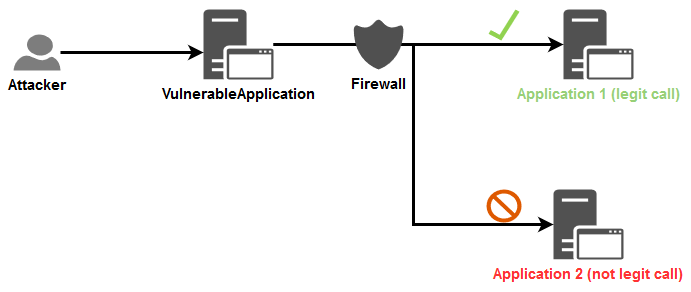
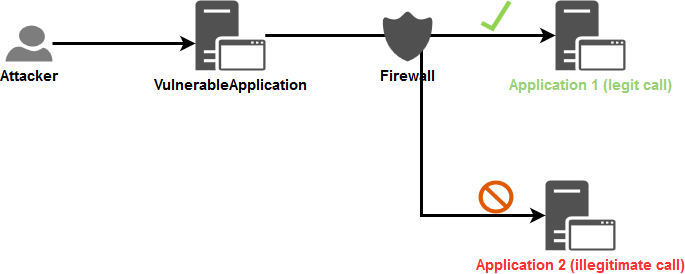
Take in account feedback from the review.

Changed region(s): [[0.0, 0.0, 1.0, 1.0]]

diff --git a/cheatsheets/Server_Side_Request_Forgery_Prevention_Cheat_Sheet.md b/cheatsheets/Server_Side_Request_Forgery_Prevention_Cheat_Sheet.md
@@ -1,59 +1,57 @@
 # Introduction
 
-The objective of the cheat sheet is to provide advices regarding the protection against [Server Side Request Forgery](https://www.acunetix.com/blog/articles/server-side-request-forgery-vulnerability/) attack.
+The objective of the cheat sheet is to provide advices regarding the protection against [Server Side Request Forgery](https://www.acunetix.com/blog/articles/server-side-request-forgery-vulnerability/) (SSRF) attack.
 
-**S**erver **S**ide **R**equest **F**orgery will be named **SSRF** in the rest of the cheat sheet.
-
-This cheat sheet will focus on the defense point of view and will not explains how to perform this attack. This [talk](../assets/Server_Side_Request_Forgery_Prevention_Cheat_Sheet_Orange_Tsai_Talk.pdf) from the security researcher [Orange Tsai](https://twitter.com/orange_8361) as well as this [document](../assets/Server_Side_Request_Forgery_Prevention_Cheat_Sheet_SSRF_Bible.pdf) provides deep advices about how to perform this kind of attack.
+This cheat sheet will focus on the defensive point of view and will not explain how to perform this attack. This [talk](../assets/Server_Side_Request_Forgery_Prevention_Cheat_Sheet_Orange_Tsai_Talk.pdf) from the security researcher [Orange Tsai](https://twitter.com/orange_8361) as well as this [document](../assets/Server_Side_Request_Forgery_Prevention_Cheat_Sheet_SSRF_Bible.pdf) provide techniques on how to perform this kind of attack.
 
 # Context
 
-SSRF is a way to force an application to make a malicious network request. It can happen when a user can control the URL to an external resource like: 
-- Image on external server (e.g. user enter URL of the avatar, then, the application will download this file and display some feedback like image itself or error).
+SSRF is an attack vector that abuses an application to interact with the internal/external network or the machine itself. One of the enablers for this vector is the mishandling of URLs, as showcased in the following examples: 
+- Image on external server (*e.g.* user enters image URL of their avatar for the application to download and use).
 - Custom [WebHook](https://en.wikipedia.org/wiki/Webhook) (user have to specify WebHook handlers or Callback URLs).
 - Request to another application, often located on another network, to perform a specific task. Depending of the business case, it can happen that information from the user are needed to perform the action.
 
-Overview of an SSRF common flow:
+## Overview of an SSRF common flow
 
 ![SSRFCommonFlow](../assets/Server_Side_Request_Forgery_Prevention_Cheat_Sheet_SSRF_Common_Flow.png)
 
-*Note:* SSRF is not limited to HTTP protocol, even if often the first request performed by the attacker leverage the HTTP protocol, the second request (performed by the vulnerable application, the SSRF in fact) can use different protocol like HTTP, FTP, SMTP, SMB and so on...It depends on the technical need of the vulnerable application to perform the normal expected job on the other application on which the request is sent.
+*Note:* SSRF is not limited to the HTTP protocol, despite the fact that in general the first request leverages it, yet the second request is performed by the application itself, and thus it could be using different protocols (*e.g.* FTP, SMB, SMTP, etc.). The protocol usage is highly dependent on the application’s requirements.
 
 # Cases
 
-Depending on the application functionality and requirements, there are two basic cases in which SSRF can happen:
-* Application can send request only to **identified and trusted applications**: *Case when [whitelist](https://en.wikipedia.org/wiki/Whitelisting) approach is available*.
-* Application can send requests to **ANY other IP address or domain name**: *Case when [whitelist](https://en.wikipedia.org/wiki/Whitelisting) approach is not available*.
+Depending on the application's functionality and requirements, there are two basic cases in which SSRF can happen:
+* Application can send request only to **identified and trusted applications**: Case when [whitelist](https://en.wikipedia.org/wiki/Whitelisting) approach is available.
+* Application can send requests to **ANY other IP address or domain name**: Case when [whitelist](https://en.wikipedia.org/wiki/Whitelisting) approach is not available.
 
 Because these two cases are very different, this cheat sheet will describe defences against them separately.
 
-# Case 1 - Application can send request only to identified and trusted applications
+## Case 1 - Application can send request only to identified and trusted applications
 
-Sometime, an application need to perform request to another application, often located on other network, to perform a specific task. Depending of the business case, it can happen that information from the user are needed to perform the action.
+Sometimes, an application need to perform request to another application, often located on another network, to perform a specific task. Depending of the business case, it can happen that information from the user are needed to perform the action.
 
 *Example:* 
 
- > We can imagine an web application that receive and use the information coming from a user like the firstname/lastname/birthdate/... to create a profile into an HR system via a request to this HR system. 
+ > We can imagine a web application receives and uses personal information from a user, such as their firstname/lastname/birthdate to create a profile in an internal HR system. By design, that web application will have to communicate using a protocol that the HR system understands in order to process that data.
 
  > Basically, the user cannot reach the HR system directly, but, if the web application in charge of receiving the user information is vulnerable to SSRF then the user can leverage it to access the HR system. 
 
- > The user leverage the web application as a proxy to the HR system, jumping accross the different networks in which the web application and the HR system are located.
+ > The user leverages the web application as a proxy to the HR system.
 
-Whitelist approach can be used here because the application called by the *VulnerableApplication* is clearly identified in the technical/business flow. So, the goal here is to ensure that every call is targeted to one of the identified and trusted applications.
+The whitelist approach is a viable option in this case since the internal application called by the *VulnerableApplication* is clearly identified in the technical/business flow. It can be stated that the required calls will only be targeted between those identified and trusted applications.
 
-## Available protections
+### Available protections
 
-Several protections measures are possible at **Application** and **Network** layers, both layers will be addressed in this cheat sheet in order to apply the *defense in deph* principle.
+Several protective measures are possible at the **Application** and **Network** layers. In order to apply the **defense in depth** principle, both layers will be hardened against such attacks.
 
-### Application layer
+#### Application layer
 
 The first level of protection that come to mind is [Input validation](Input_Validation_Cheat_Sheet.md). 
 
-It's a good point but then this question is then raised: *How to perform this input validation?*
+Based on that point, the following question comes to mind: *How to perform this input validation?*
 
-As [Orange Tsai](https://twitter.com/orange_8361) show in his [talk](../assets/Server_Side_Request_Forgery_Prevention_Cheat_Sheet_Orange_Tsai_Talk.pdf), depending on the programming language used, parser can be abused. One possible countermeasure is to apply the [whitelisting approach](Input_Validation_Cheat_Sheet.md#whitelisting-vs-blacklisting) when input validation is used because, most of the time, the format of the information expected from the user is globally know.
+As [Orange Tsai](https://twitter.com/orange_8361) shows in his [talk](../assets/Server_Side_Request_Forgery_Prevention_Cheat_Sheet_Orange_Tsai_Talk.pdf), depending on the programming language used, parsers can be abused. One possible countermeasure is to apply the [whitelisting approach](Input_Validation_Cheat_Sheet.md#whitelisting-vs-blacklisting) when input validation is used because, most of the time, the format of the information expected from the user is globally know.
 
-We can identify the following kind of information that we can receive from a user and that will use to create the request that will be sent to the final application:
+The request sent to the internal application will be based on the following kind of information:
 * String containing business data.
 * IP address (V4 or V6).
 * Domain name.
@@ -61,13 +59,18 @@ We can identify the following kind of information that we can receive from a use
 
 **Note:** Disable the support for the following of the [redirection](https://developer.mozilla.org/en-US/docs/Web/HTTP/Redirections) in your web client in order to prevent the bypass of the input validation described in the section `Exploitation tricks > Bypassing restrictions > Input validation > Unsafe redirect` of this [document](../assets/Server_Side_Request_Forgery_Prevention_Cheat_Sheet_SSRF_Bible.pdf).
 
-#### String
+##### String
 
-In the context of an SSRF, we can simply ensure that the provided string respect the business/technical format expected. A [regex](https://www.regular-expressions.info/) can be used to ensure that data receive is valid from a security point of view. We assume here that the expected data is a non-network related data like firstname/lastname/birthdate/...
+In the context of SSRF, checks can be put in place to ensure that the string respects the business/technical format expected. 
+
+A [regex](https://www.regular-expressions.info/) can be used to ensure that data received is valid from a security point of view if the input data have a simple format (*e.g.* token, zip code, etc.) otherwise prefer validation using string because regex for complex format are difficult to maintain and are highly error prone.
+
+User input is assumed to be non-network related and consists of the user's personal information.
 
 Example:
 
 ```java
+//Regex validation for a data having a simple format
 if(Pattern.matches("[a-zA-Z0-9\\s\\-]{1,50}", userInput)){
     //Continue the processing because the input data is valid
 }else{
@@ -75,16 +78,16 @@ if(Pattern.matches("[a-zA-Z0-9\\s\\-]{1,50}", userInput)){
 }
 ```
 
-#### IP address
+##### IP address
 
-In the context of an SSRF, there is 2 validations to perform:
+In the context of SSRF, there are 2 possible validations to perform:
 
 1. Ensure that the data provided is a valid IP V4 or V6 address.
-2. Ensure that the IP address provided belong to the one of the IP addresses of the identified and trusted applications (the whitelisting come to action here).
+2. Ensure that the IP address provided belong to the one of the IP addresses of the identified and trusted applications.
 
-The first validation can be performed using one of this libraries depending on your technologies (library option is proposed here in order to delegate the managing of the IP address format and leverage battle tested validation function):
+The first layer of validation can be applied using libraries that ensure the security of the IP address format, based on the technology used (library option is proposed here in order to delegate the managing of the IP address format and leverage battle tested validation function):
 
-> Verification of the proposed libraries has been performed regarding the exposure to bypass (Hex, Octal, Dword, URL and Mixed encoding) described in this [article](https://medium.com/@vickieli/bypassing-ssrf-protection-e111ae70727b).
+> Verification of the proposed libraries has been performed regarding the exposure to bypasses (Hex, Octal, Dword, URL and Mixed encoding) described in this [article](https://medium.com/@vickieli/bypassing-ssrf-protection-e111ae70727b).
 
 * **JAVA:** Method [InetAddressValidator.isValid](http://commons.apache.org/proper/commons-validator/apidocs/org/apache/commons/validator/routines/InetAddressValidator.html#isValid(java.lang.String)) from the [Apache Commons Validator](http://commons.apache.org/proper/commons-validator/) library.
     * **It is NOT exposed** to bypass using Hex, Octal, Dword, URL and Mixed encoding.
@@ -100,21 +103,21 @@ The first validation can be performed using one of this libraries depending on y
 
 > **Use the output value of the method/library as the IP address to compare against the whitelist.**
 
-Once we are sure that the value is a valid IP address then you we perform the second validation. Here, as a whitelist has been built with all the IP addresses (V4 + V6 in order to avoid bypass using one of the 2 IP type) of every identified and trusted applications, then, a verification can be made to ensure that the IP address provided is part of this whitelist (string strict comparison with case sensitive).
+After ensuring the validity of the incoming IP address, the second layer of validation is applied. A whitelist is created after determining all the IP addresses (v4 and v6 in order to avoid bypasses) of the identified and trusted applications. The valid IP is cross checked with that list to ensure its communication with the internal application (string strict comparison with case sensitive).
 
-#### Domain name
+##### Domain name
 
-When validation of a domain name come to mind, the first idea is to do a DNS resolution in order to see if the domain exists, it's not a bad idea but it bring some problems depending on the configuration of the application regarding the DNS servers to use for the resolution:
+In the attempt of validating domain names, it is apparent to do a DNS resolution in order to verify the existence of the domain. In general, it is not a bad idea, yet it opens up the application to attacks depending on the configuration used regarding the DNS servers used for the domain name resolution:
 * It can disclose information to external DNS resolvers.
 * It can be used by an attacker to bind a legit domain name to an internal IP address. See the section `Exploitation tricks > Bypassing restrictions > Input validation > DNS pinning` of this [document](../assets/Server_Side_Request_Forgery_Prevention_Cheat_Sheet_SSRF_Bible.pdf).
-* It can be used, by an attacker, to deliver a malicious payload to the internal DNS resolvers as well as to the API (SDK or third-party) used by the application to handle the DNS communication and then, potentially, trigger a vulnerability in one of these both components.
+* It can be used, by an attacker, to deliver a malicious payload to the internal DNS resolvers as well as to the API (SDK or third-party) used by the application to handle the DNS communication and then, potentially, trigger a vulnerability in one of these components.
 
-In the context of an SSRF, there is 2 validations to perform:
+In the context of SSRF, there are 2 validations to perform:
 
 1. Ensure that the data provided is a valid domain name.
-2. Ensure that the domain name provided belong to the one of the domain name of the identified and trusted applications (the whitelisting come to action here).
+2. Ensure that the domain name provided belong to one of the domain name of the identified and trusted applications (the whitelisting come to action here).
 
-Like for IP address, the first validation can be performed using one of this libraries depending on your technologies (library option is proposed here in order to delegate the managing of the domain name format and leverage battle tested validation function):
+Similar to the IP address validation, the first layer of validation can be applied using libraries that ensure the security of the domain name format, based on the technology used (library option is proposed here in order to delegate the managing of the domain name format and leverage battle tested validation function):
 
 > Verification of the proposed libraries has been performed to ensure that the proposed functions do not perform any DNS resolution query.
 
@@ -124,7 +127,7 @@ Like for IP address, the first validation can be performed using one of this lib
 * **Python**: Module [validators.domain](https://validators.readthedocs.io/en/latest/#module-validators.domain).
 * **Ruby**: No valid dedicated gem has been found.
     * [domainator](https://github.com/mhuggins/domainator), [public_suffix](https://github.com/weppos/publicsuffix-ruby) and [addressable](https://github.com/sporkmonger/addressable) has been tested but unfortunately they all consider `<script>alert(1)</script>.owasp.org` as a valid domain name. 
-    * This regex, taken from [here](https://stackoverflow.com/a/26987741), can thus be used: `^(((?!-))(xn--|_{1,1})?[a-z0-9-]{0,61}[a-z0-9]{1,1}\.)*(xn--)?([a-z0-9][a-z0-9\-]{0,60}|[a-z0-9-]{1,30}\.[a-z]{2,})$`
+    * This regex, taken from [here](https://stackoverflow.com/a/26987741), can be used: `^(((?!-))(xn--|_{1,1})?[a-z0-9-]{0,61}[a-z0-9]{1,1}\.)*(xn--)?([a-z0-9][a-z0-9\-]{0,60}|[a-z0-9-]{1,30}\.[a-z]{2,})$`
 
 Example of execution of the proposed regex for Ruby:
 
@@ -150,14 +153,14 @@ $ ruby test.rb
 [!] <script>alert(1)</script>.owasp.org is INVALID
 ```
 
-Once we are sure that the value is a valid domain name then we can perform the second validation. As we are, here, in a context where whitelist is possible then we can apply this approach:
+After ensuring the validity of the incoming domain name, the second layer of validation is applied:
 
 1. Build a whitelist with all the domain names of every identified and trusted applications.
 2. Verify that the domain name received is part of this whitelist (string strict comparison with case sensitive).
 
 Unfortunately here, the application is still vulnerable to the bypass described in the section `Exploitation tricks > Bypassing restrictions > Input validation > DNS pinning` of this [document](../assets/Server_Side_Request_Forgery_Prevention_Cheat_Sheet_SSRF_Bible.pdf) because a DNS resolution will be made when the business code will be executed. To address that issue, the following action must be taken in addition of the validation on the domain name:
-1. Ensure that the domains that are part of your organization are resolved by the your internal DNS server first in the chains of DNS resolvers.
-2. Monitor the whitelist of domains in order to detect if any of them change to resolve to an:
+1. Ensure that the domains that are part of your organization are resolved by your internal DNS server first in the chains of DNS resolvers.
+2. Monitor the domains whitelist in order to detect when any of them resolves to a/an:
     * Local IP address (V4 + V6).
     * Internal IP of your organization (expected to be in private IP ranges) for the domain that are not part of your organization.
 
@@ -230,71 +233,69 @@ if __name__== "__main__":
         exit(0)
 ```
 
-#### URL
+##### URL
 
-Do not accept complete URL from the user because URL are difficult to validate and parser can be abused depending on the technology used like demonstrated by the [talk](../assets/Server_Side_Request_Forgery_Prevention_Cheat_Sheet_Orange_Tsai_Talk.pdf) of [Orange Tsai](https://twitter.com/orange_8361). 
+Do not accept complete URLs from the user because URL are difficult to validate and the parser can be abused depending on the technology used as showcased by the following [talk](../assets/Server_Side_Request_Forgery_Prevention_Cheat_Sheet_Orange_Tsai_Talk.pdf) of [Orange Tsai](https://twitter.com/orange_8361). 
 
-If network related information is really nedded then only accept an valid IP address or domain name.
+If network related information is really nedded then only accept a valid IP address or domain name.
 
-### Network layer
+#### Network layer
 
-The objective here is to prevent that the *VulnerableApplication* performs call to arbitrary applications, so, only the expected *routes* will be opened at network level.
+The objective of the Network layer security is to prevent the *VulnerableApplication* from performing calls to arbitrary applications. Only allowed *routes* will be available for this application in order to limit its network access to only those that it should communicate with.
 
 The Firewall component, as a specific device or using the one provided within the operating system, will be used here to define the legitimate flows. 
 
-In the schema below, we show the goal that we want the achieve by leveraging the Firewall component, using this way, even if an application is vulnerable to SSRF, the attacker can only call applications that are part of legitimate flows:
+In the schema below, a Firewall component is leveraged to limit the application's access, and in turn, limit the impact of an application vulnerable to SSRF:
 
 ![Case 1 for Network layer protection about flows that we want to prevent](../assets/Server_Side_Request_Forgery_Prevention_Cheat_Sheet_Case1_NetworkLayer_PreventFlow.png)
 
-[Network segregation](https://www.mwrinfosecurity.com/our-thinking/making-the-case-for-network-segregation) (see this set of [implementation advices](https://www.cyber.gov.au/publications/network-segmentation-and-segregation)) can also be leveraged and **is highly recommanded in order to block not legit call directly at network level itself**.
+[Network segregation](https://www.mwrinfosecurity.com/our-thinking/making-the-case-for-network-segregation) (see this set of [implementation advices](https://www.cyber.gov.au/publications/network-segmentation-and-segregation)) can also be leveraged and **is highly recommanded in order to block illegitimate calls directly at network level itself**.
 
-# Case 2 - Application can send requests to ANY external IP address or domain name
+## Case 2 - Application can send requests to ANY external IP address or domain name
 
-This case happen when user can control an URL to an **External** resource and the application makes a request to this URL (e.g. in case of [WebHooks](https://en.wikipedia.org/wiki/Webhook)). Whitelist cannot be used here because the list of IPs/domains is often unknown upfront and is dynamically changing. 
+This case happens when user can control an URL to an **External** resource and the application makes a request to this URL (e.g. in case of [WebHooks](https://en.wikipedia.org/wiki/Webhook)). Whitelist cannot be used here because the list of IPs/domains is often unknown upfront and is dynamically changing. 
 
-We talk here about the notion of **External** in way that, at the opposite of the case n°1 in which we know all the call flow, here the *VulnerableApplication* can, by design, call any target IP/domain. 
+In this scenario, *External* refers to any IP that is doesn't belong to the internal network, and should be reached by going over the public internet.
 
-We assume that if in the design of the application it should only perform call to IP/domain that are located inside the company's global network then whitelist approach can be used and then we apply the case n°1. 
-
-Thus **External** here refer to any IP/domain *located outside* the company's global network. So, the goal here is to ensure that every call initiated by the *VulnerableApplication*:
+Thus, the call from the *Vulnerable Application*: 
 * **Is NOT** targeting one of the IP/domain *located inside* the company's global network.
-* Use a convention defined between the *VulnerableApplication* and the expected IP/domain in order to *proof* that the call has been legitimately initiated.
+* Uses a convention defined between the *VulnerableApplication* and the expected IP/domain in order to *prove* that the call has been legitimately initiated.
 
-## Challenges in blocking URLs at application layer
+### Challenges in blocking URLs at application layer
 
-Based on the description of the context of application of this case, we see that we will use the blacklist approach. By the way, it is know in security industry that blacklisting is very hard and prone to errors but we are forced to use this approach here. 
+Based on the business requirements of the above mentioned applications, the whitelist approach is not a valid solution. Despite knowing that the blacklist approach is not an impenetrable wall, it is the best solution in this scenario. It helps tell the application what it should **not** do.
 
-Below is described why filtering URLs is very hard at application layer.
+Here is why filtering URLs is hard at the Application layer:
 
-* It imply that the application must be able to detect, at code level, that the provided IP (V4 + V6) is not in official [private networks ranges](https://en.wikipedia.org/wiki/Private_network) including also *localhost* and *IPv4/v6 Link-Local* addresses. Not every SDK provide a built-in feature for this kind of verification so it made this task a hard one.
-* Same remark for domain name: The company must maintains a list of all internal domain names and provide a centralized service to allow an application to verify if a provided domain name is an internal one. For this verification, an internal DNS resolver can be queried by the application but this internal DNS resolver must not resolve external domain name (*must only resolve internal domain name*).
+* It implies that the application must be able to detect, at the code level, that the provided IP (V4 + V6) is not part of the official [private networks ranges](https://en.wikipedia.org/wiki/Private_network) including also *localhost* and *IPv4/v6 Link-Local* addresses. Not every SDK provides a built-in feature for this kind of verification, and leaves the handling up to the developer understand all of its pitfalls and possible values, which makes it a demanding task.
+* Same remark for domain name: The company must maintains a list of all internal domain names and provide a centralized service to allow an application to verify if a provided domain name is an internal one. For this verification, an internal DNS resolver can be queried by the application but this internal DNS resolver must not resolve external domain names.
 
-## Available protections
+### Available protections
 
 We take the same assumption than for the case n°1 regarding the application user input data needed and the *defense in deph* principle.
 
-### Application layer
+#### Application layer
 
-Like for the case n°1, we assume that we need `String`, `IP address` or `domain name` to create the request that will be sent to the *TargetedApplication*.
+Like for the case [n°1](Server_Side_Request_Forgery_Prevention_Cheat_Sheet.md#case-1---application-can-send-request-only-to-identified-and-trusted-applications), it is assumed that the `IP Address` or `domain name` is required to create the request that will be sent to the *TargetApplication*.
 
-The first validation on the input data presented in the case n°1 on the 3 types of data will be the same for this case **BUT the second validation will differ**, indeed, here we must use the blacklist approach.
+The first validation on the input data presented in the case [n°1](Server_Side_Request_Forgery_Prevention_Cheat_Sheet.md#application-layer) on the 3 types of data will be the same for this case **BUT the second validation will differ**. Indeed, here we must use the blacklist approach.
 
-> **Regarding the proof of legitimacy of the request**: The *TargetedApplication* that will receive the request must generate a random token (ex: alphanumeric of 20 characters) that is expected to be passed by the caller (in body via a parameter for which the name is also defined by the application itself and only allow characters set `[a-z]{1,10}`) to perform a valid request. The reception endpoint must only accept **HTTP POST** kind of request.
+> **Regarding the proof of legitimacy of the request**: The *TargetedApplication* that will receive the request must generate a random token (ex: alphanumeric of 20 characters) that is expected to be passed by the caller (in body via a parameter for which the name is also defined by the application itself and only allow characters set `[a-z]{1,10}`) to perform a valid request. The receiving endpoint must only accept HTTP POST requests.
 
-**Validation flow (if one the validation step fail then the request is rejected):**
+**Validation flow (if one the validation steps fail then the request is rejected):**
 
-1. We receive the IP address or domain name of the *TargetedApplication* and apply the first validation on the input data using the libraries/regex mentioned in this [section](Server_Side_Request_Forgery_Prevention_Cheat_Sheet.md#application-layer).
-2. We apply the second validation against the IP address or domain name of the *TargetedApplication* using the following blacklist apporach:
+1. The application receive the IP address or domain name of the *TargetedApplication* and apply the first validation on the input data using the libraries/regex mentioned in this [section](Server_Side_Request_Forgery_Prevention_Cheat_Sheet.md#application-layer).
+2. The second validation is applied against the IP address or domain name of the *TargetedApplication* using the following blacklist approach:
     * For IP address: 
-        * We verify that it is a public one (cf. below to see how to dot it).
+        * The application verify that it is a public one (see the hint provided in the next paragraph with the python code sample).
     * For domain name: 
         1. We verify that it is a public one by trying to resolve the domain name against the DNS resolver that only resolve internal domain name. Here, it must return a response indicating that it do not know the provided domain because the expected value received must be a public domain.
         2. To prevent the *DNS pinning* attack described into this [document](../assets/Server_Side_Request_Forgery_Prevention_Cheat_Sheet_SSRF_Bible.pdf), we retrieve the IPs behind the domain name provided (taking records *A* + *AAAA* for IPv4 + IPv6) and we apply the same verificaton than if we have received an IP address.
-3. We receive the protocol to use for the request via a dedicated input parameter for which we verify the value against a allowed list of protocols (`HTTP` or `HTTPS`).
-4. We receive the parameter name for the token to pass to the *TargetedApplication* via a dedicated input parameter for which we only allow characters set `[a-z]{1,10}`.
-5. We receive the token itself via a dedicated input parameter for which we only allow characters set `[a-zA-Z0-9]{20}`.
-6. We receive and validate (from a security point of view) any business data needed to perform a valid call.
-7. We build the HTTP POST request **using only validated informations** and send it (*we do not forget to disable the support for [redirection](https://developer.mozilla.org/en-US/docs/Web/HTTP/Redirections) in the web client used*).
+3. The application receive the protocol to use for the request via a dedicated input parameter for which we verify the value against a allowed list of protocols (`HTTP` or `HTTPS`).
+4. The application receive the parameter name for the token to pass to the *TargetedApplication* via a dedicated input parameter for which we only allow characters set `[a-z]{1,10}`.
+5. The application receive the token itself via a dedicated input parameter for which we only allow characters set `[a-zA-Z0-9]{20}`.
+6. The application receive and validate (from a security point of view) any business data needed to perform a valid call.
+7. The application build the HTTP POST request **using only validated informations** and send it (*we do not forget to disable the support for [redirection](https://developer.mozilla.org/en-US/docs/Web/HTTP/Redirections) in the web client used*).
 
 **Hints for the step 2 regarding the verification on an IP address:**
 
@@ -342,21 +343,22 @@ def is_private_ip(ip_address):
     ip_prefix.append("fe")
     ip_prefix.append("::1")
     # Verify the provided IP address
-    if ip_address is not None:
-        # Remove whitespace characters from the beginning/end of the string 
-        # and convert it to lower case
-        ip_to_verify = ip_address.strip().lower()
-        # Perform the check against the list of prefix
-        for prefix in ip_prefix:
-            if ip_to_verify.startswith(prefix):
-                is_private = True
-                break
+    # Remove whitespace characters from the beginning/end of the string 
+    # and convert it to lower case 
+    # Lower case is for preventing any IPV6 case bypass using mixed case
+    # depending on the source used to get the IP address
+    ip_to_verify = ip_address.strip().lower()
+    # Perform the check against the list of prefix
+    for prefix in ip_prefix:
+        if ip_to_verify.startswith(prefix):
+            is_private = True
+            break
     return is_private   
 ```
 
-### Network layer
+#### Network layer
 
-Same like for the case n°1.
+Same like for the case [n°1](Server_Side_Request_Forgery_Prevention_Cheat_Sheet.md#network-layer).
 
 # References
 
@@ -371,7 +373,7 @@ Article about [Bypassing SSRF Protection](https://medium.com/@vickieli/bypassing
 
 Mermaid code for SSRF common flow (printscreen are used to capture PNG image inserted into this cheat sheet):
 
-```text
+```
 sequenceDiagram
     participant Attacker
     participant VulnerableApplication
